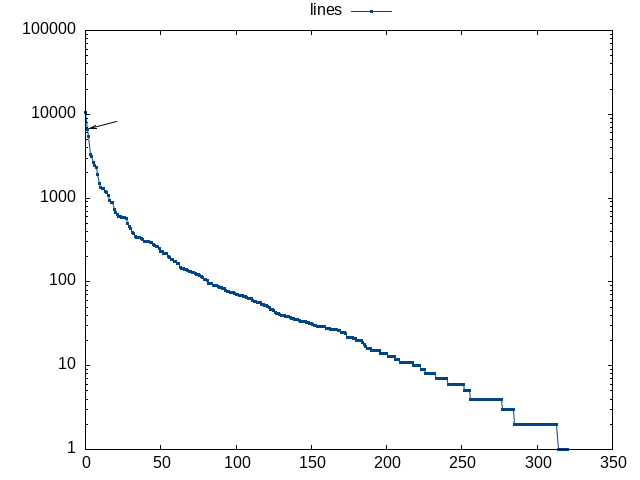
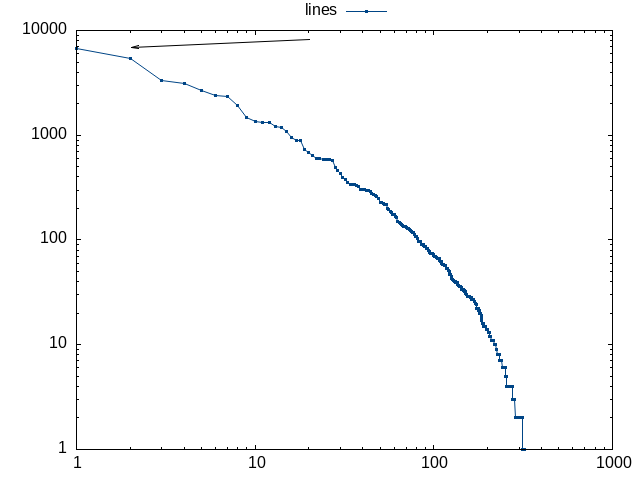
src/content/posts/my_opensource_commits_stat_2025: use logscsale x axis for all plots

diff --git a/src/content/posts/my_opensource_commits_stat_2025.md b/src/content/posts/my_opensource_commits_stat_2025.md
@@ -77,11 +77,11 @@ $ ./authors.py ~/linux --commits linus/master \
         --skip_merge_commits --sortby lines --max_nr_authors 400 \
         --pr_for_plot |
     ../format_data/plot/plot.py 2025_changed_lines_per_author_linux_mm.png \
-        --ylog --pointsize 0.3 --gnuplot_arrow 20 8000 2 6667
+        --xlog --ylog --pointsize 0.3 --gnuplot_arrow 20 8000 2 6667
 ```
 
 The resuling plot is like below.  The arrow is showing where I am.  Note that
-the y axis is in logscale.
+both x and y axes are in logscale.
 
 ![number of changed lines per author for mm in
 2025](/img/2025_open_source_commits_stat/2025_changed_lines_per_author_linux_mm.png)
@@ -113,11 +113,11 @@ $ ./authors.py ~/linux --commits linus/master \
         --skip_merge_commits --sortby commits --max_nr_authors 400 \
         --pr_for_plot |
     ../format_data/plot/plot.py 2025_commits_per_author_linux_mm.png \
-        --ylog --pointsize 0.3 --gnuplot_arrow 20 8000 2 6667
+        --xlog --ylog --pointsize 0.3 --gnuplot_arrow 2 300 1 199
 ```
 
 The resuling plot is like below.  The arrow is showing where I am.  Note that
-the y axis is in logscale.
+both x and y axes are in logscale.
 
 ![number of commits per author for mm in
 2025](/img/2025_open_source_commits_stat/2025_commits_per_author_linux_mm.png)
